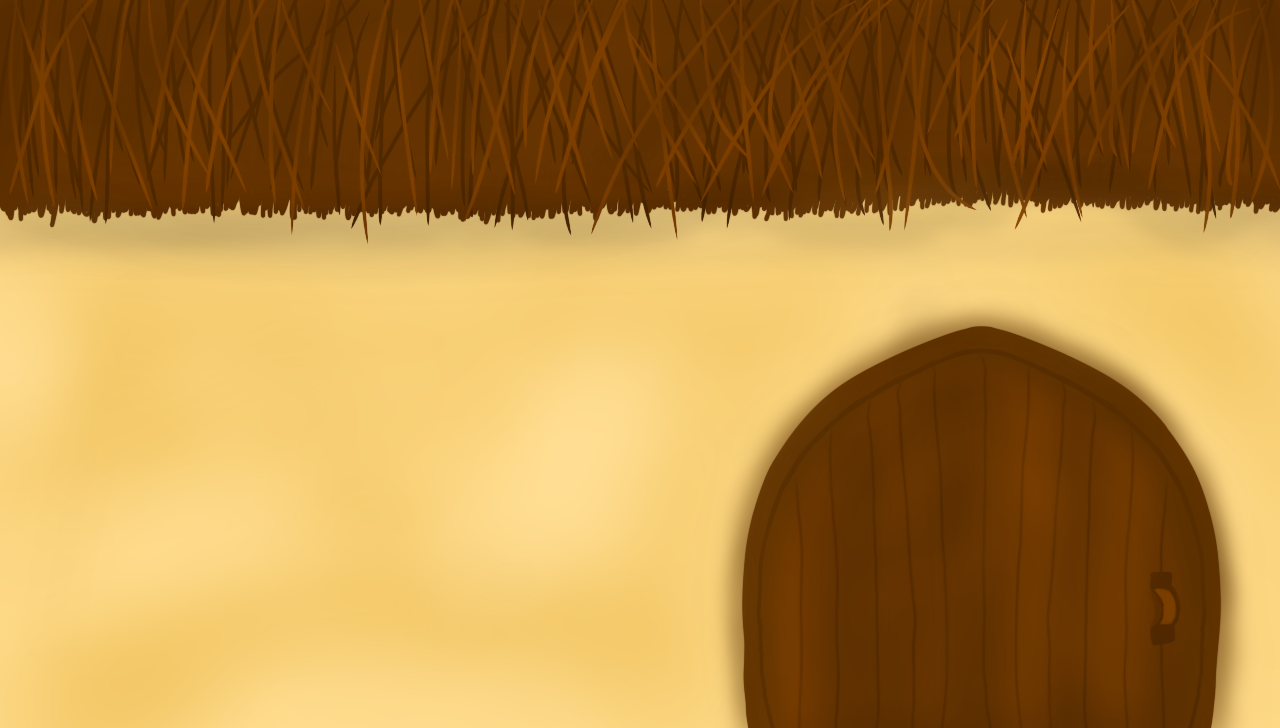
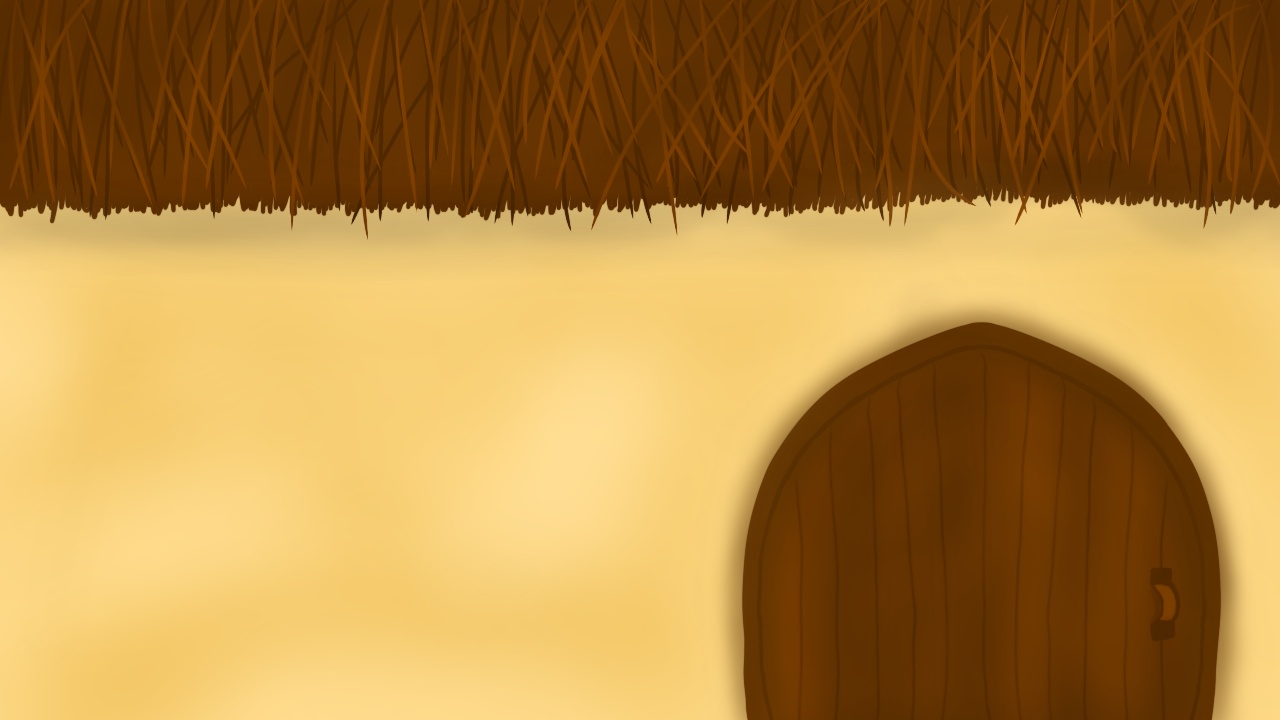
Fix af fejl i opløsning

Changed region(s): [[0.0, 0.275, 1.0, 0.3056]]

diff --git a/WorldOfSult/zuul-framework/worldofzuul/StageController.java b/WorldOfSult/zuul-framework/worldofzuul/StageController.java
@@ -16,7 +16,7 @@ public class StageController {
         currentStage = sceneName;
         GUI.primaryStage.setTitle("World of Zuul - " + sceneName);
         Parent root = FXMLLoader.load(getClass().getResource( "windows/" + sceneName + ".fxml" ));
-        GUI.primaryStage.setScene(new Scene(root, 1920, 1080));
+        GUI.primaryStage.setScene(new Scene(root));
         GUI.primaryStage.show();
     }
 }

diff --git a/WorldOfSult/zuul-framework/worldofzuul/GUI.java b/WorldOfSult/zuul-framework/worldofzuul/GUI.java
@@ -18,9 +18,6 @@ public class GUI extends Application {
     @Override
     public void start(Stage primaryStage) throws Exception{
         GUI.primaryStage = primaryStage;
-        GUI.primaryStage.initStyle(StageStyle.UNDECORATED);
-
-        GUI.primaryStage.setMaximized(true);
 
         StageController stageController = new StageController();
         stageController.changeScene("Menu");
